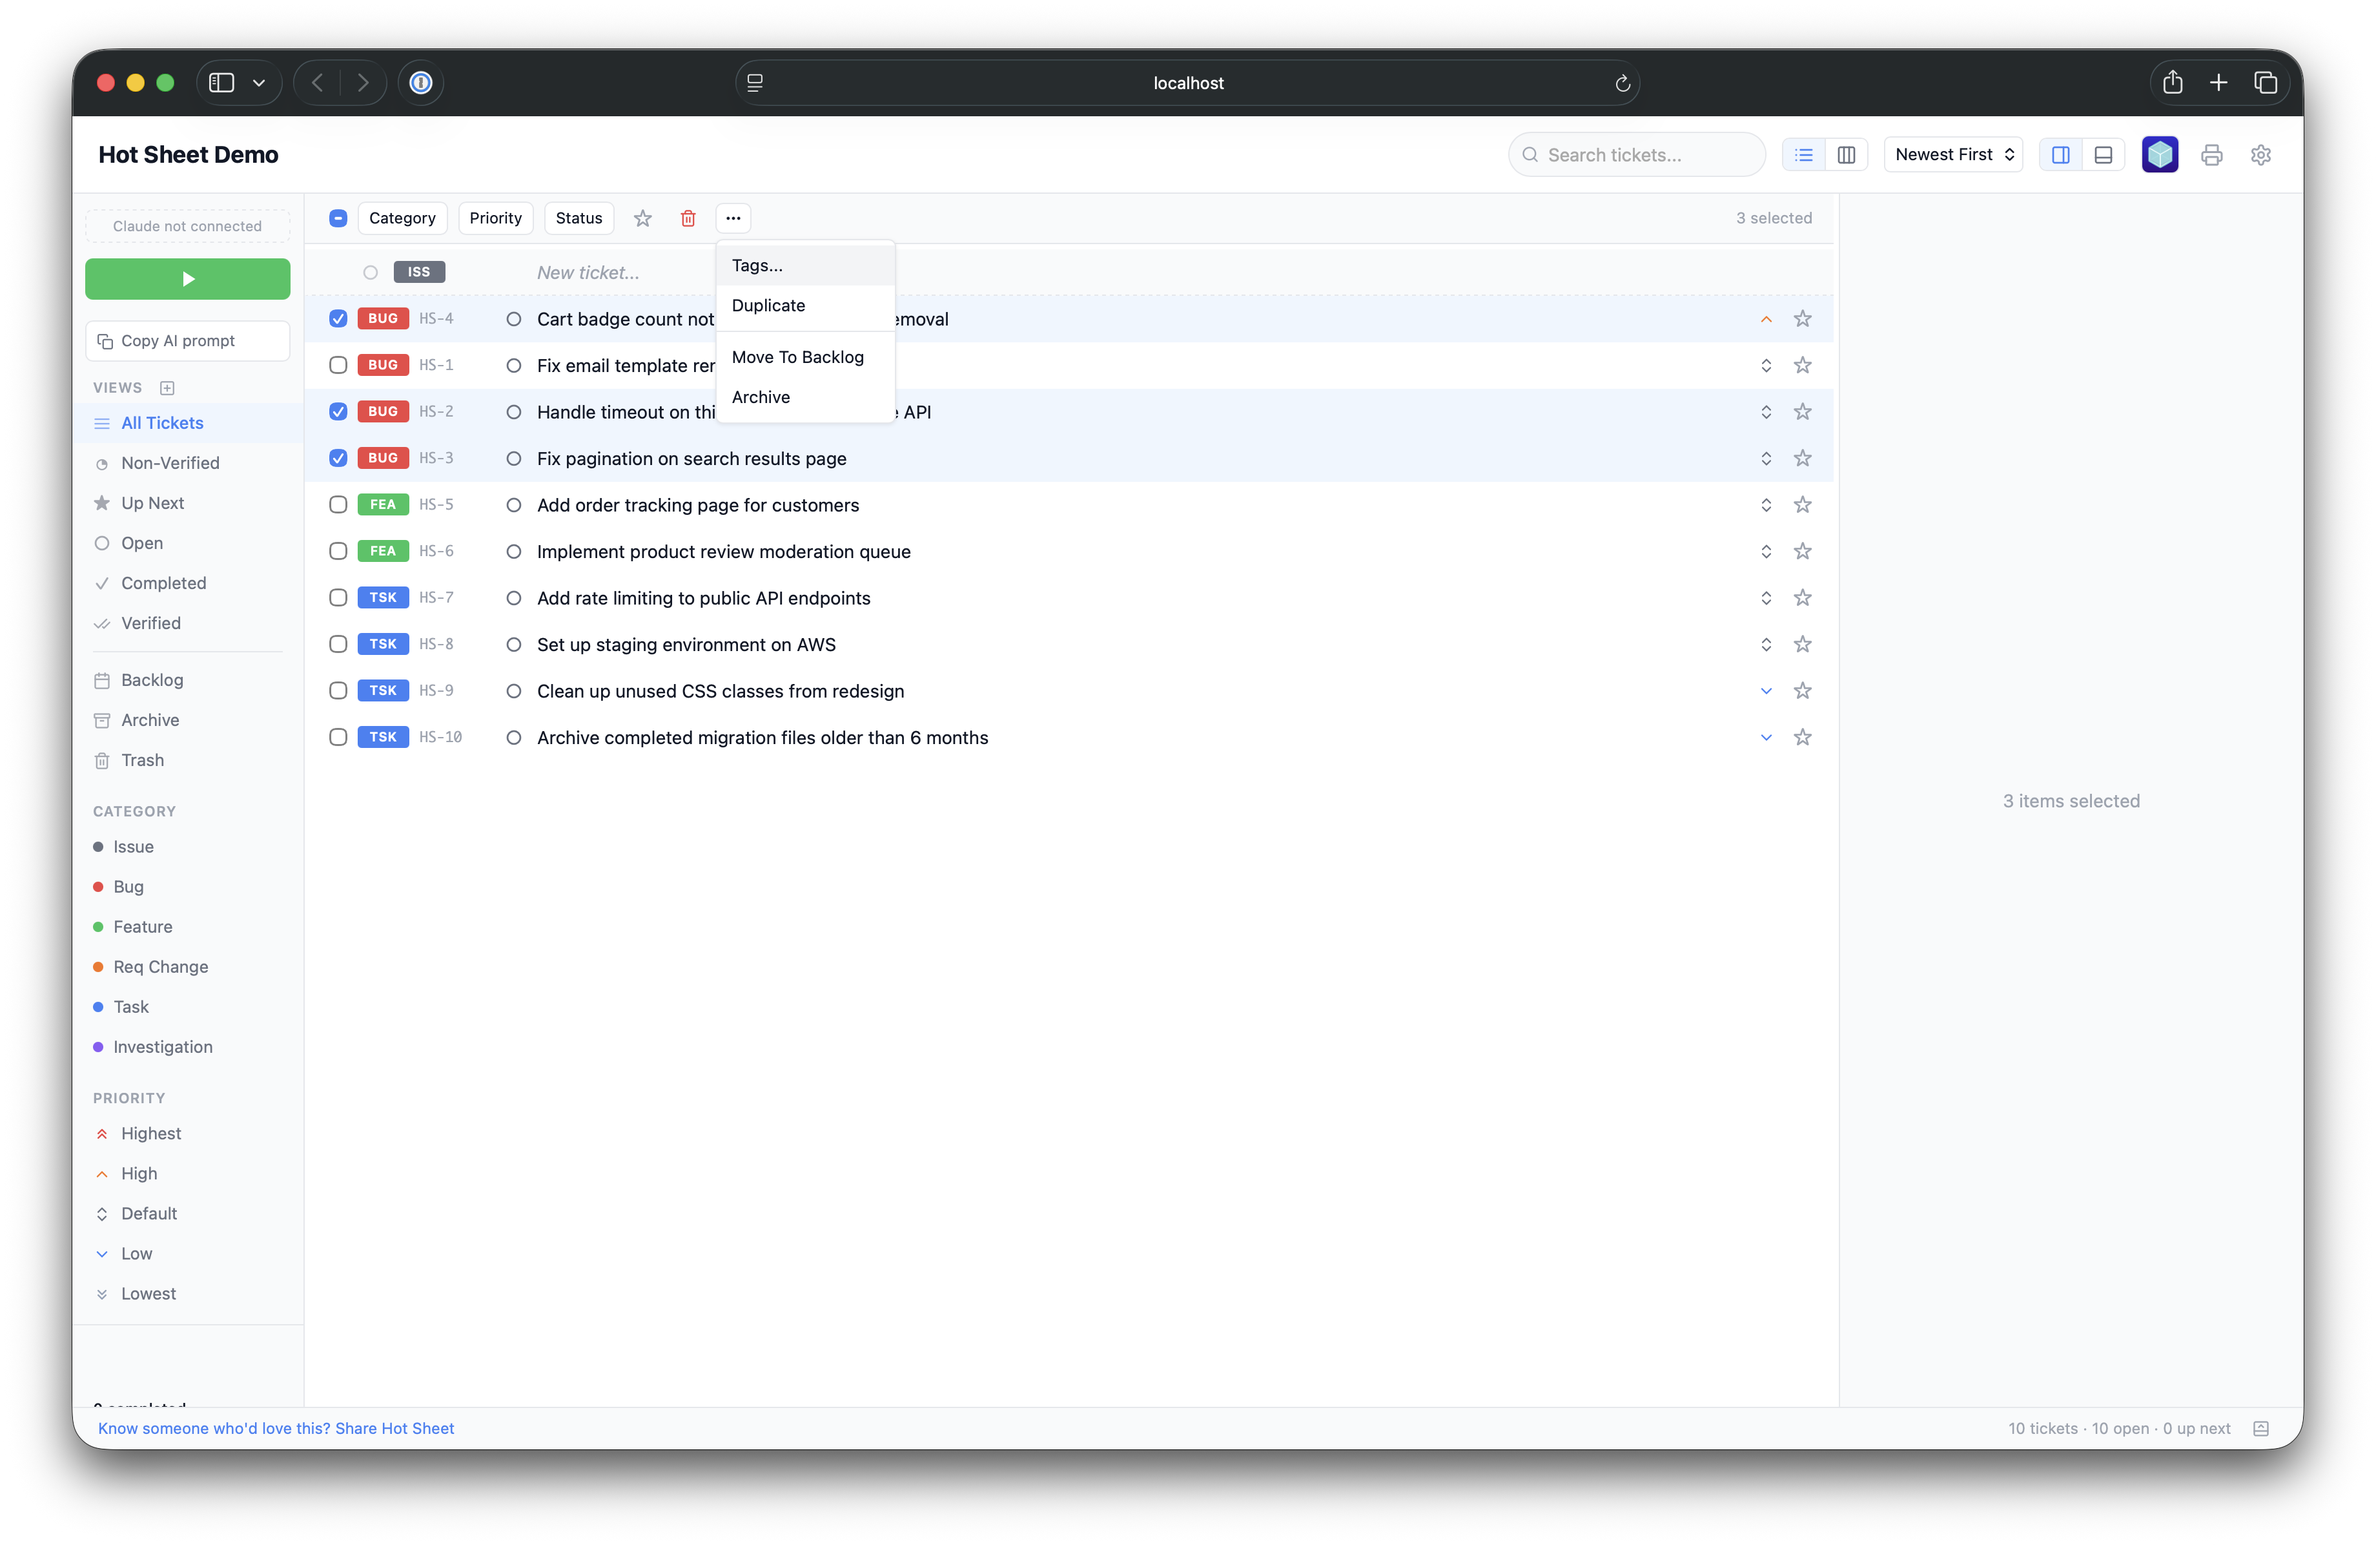
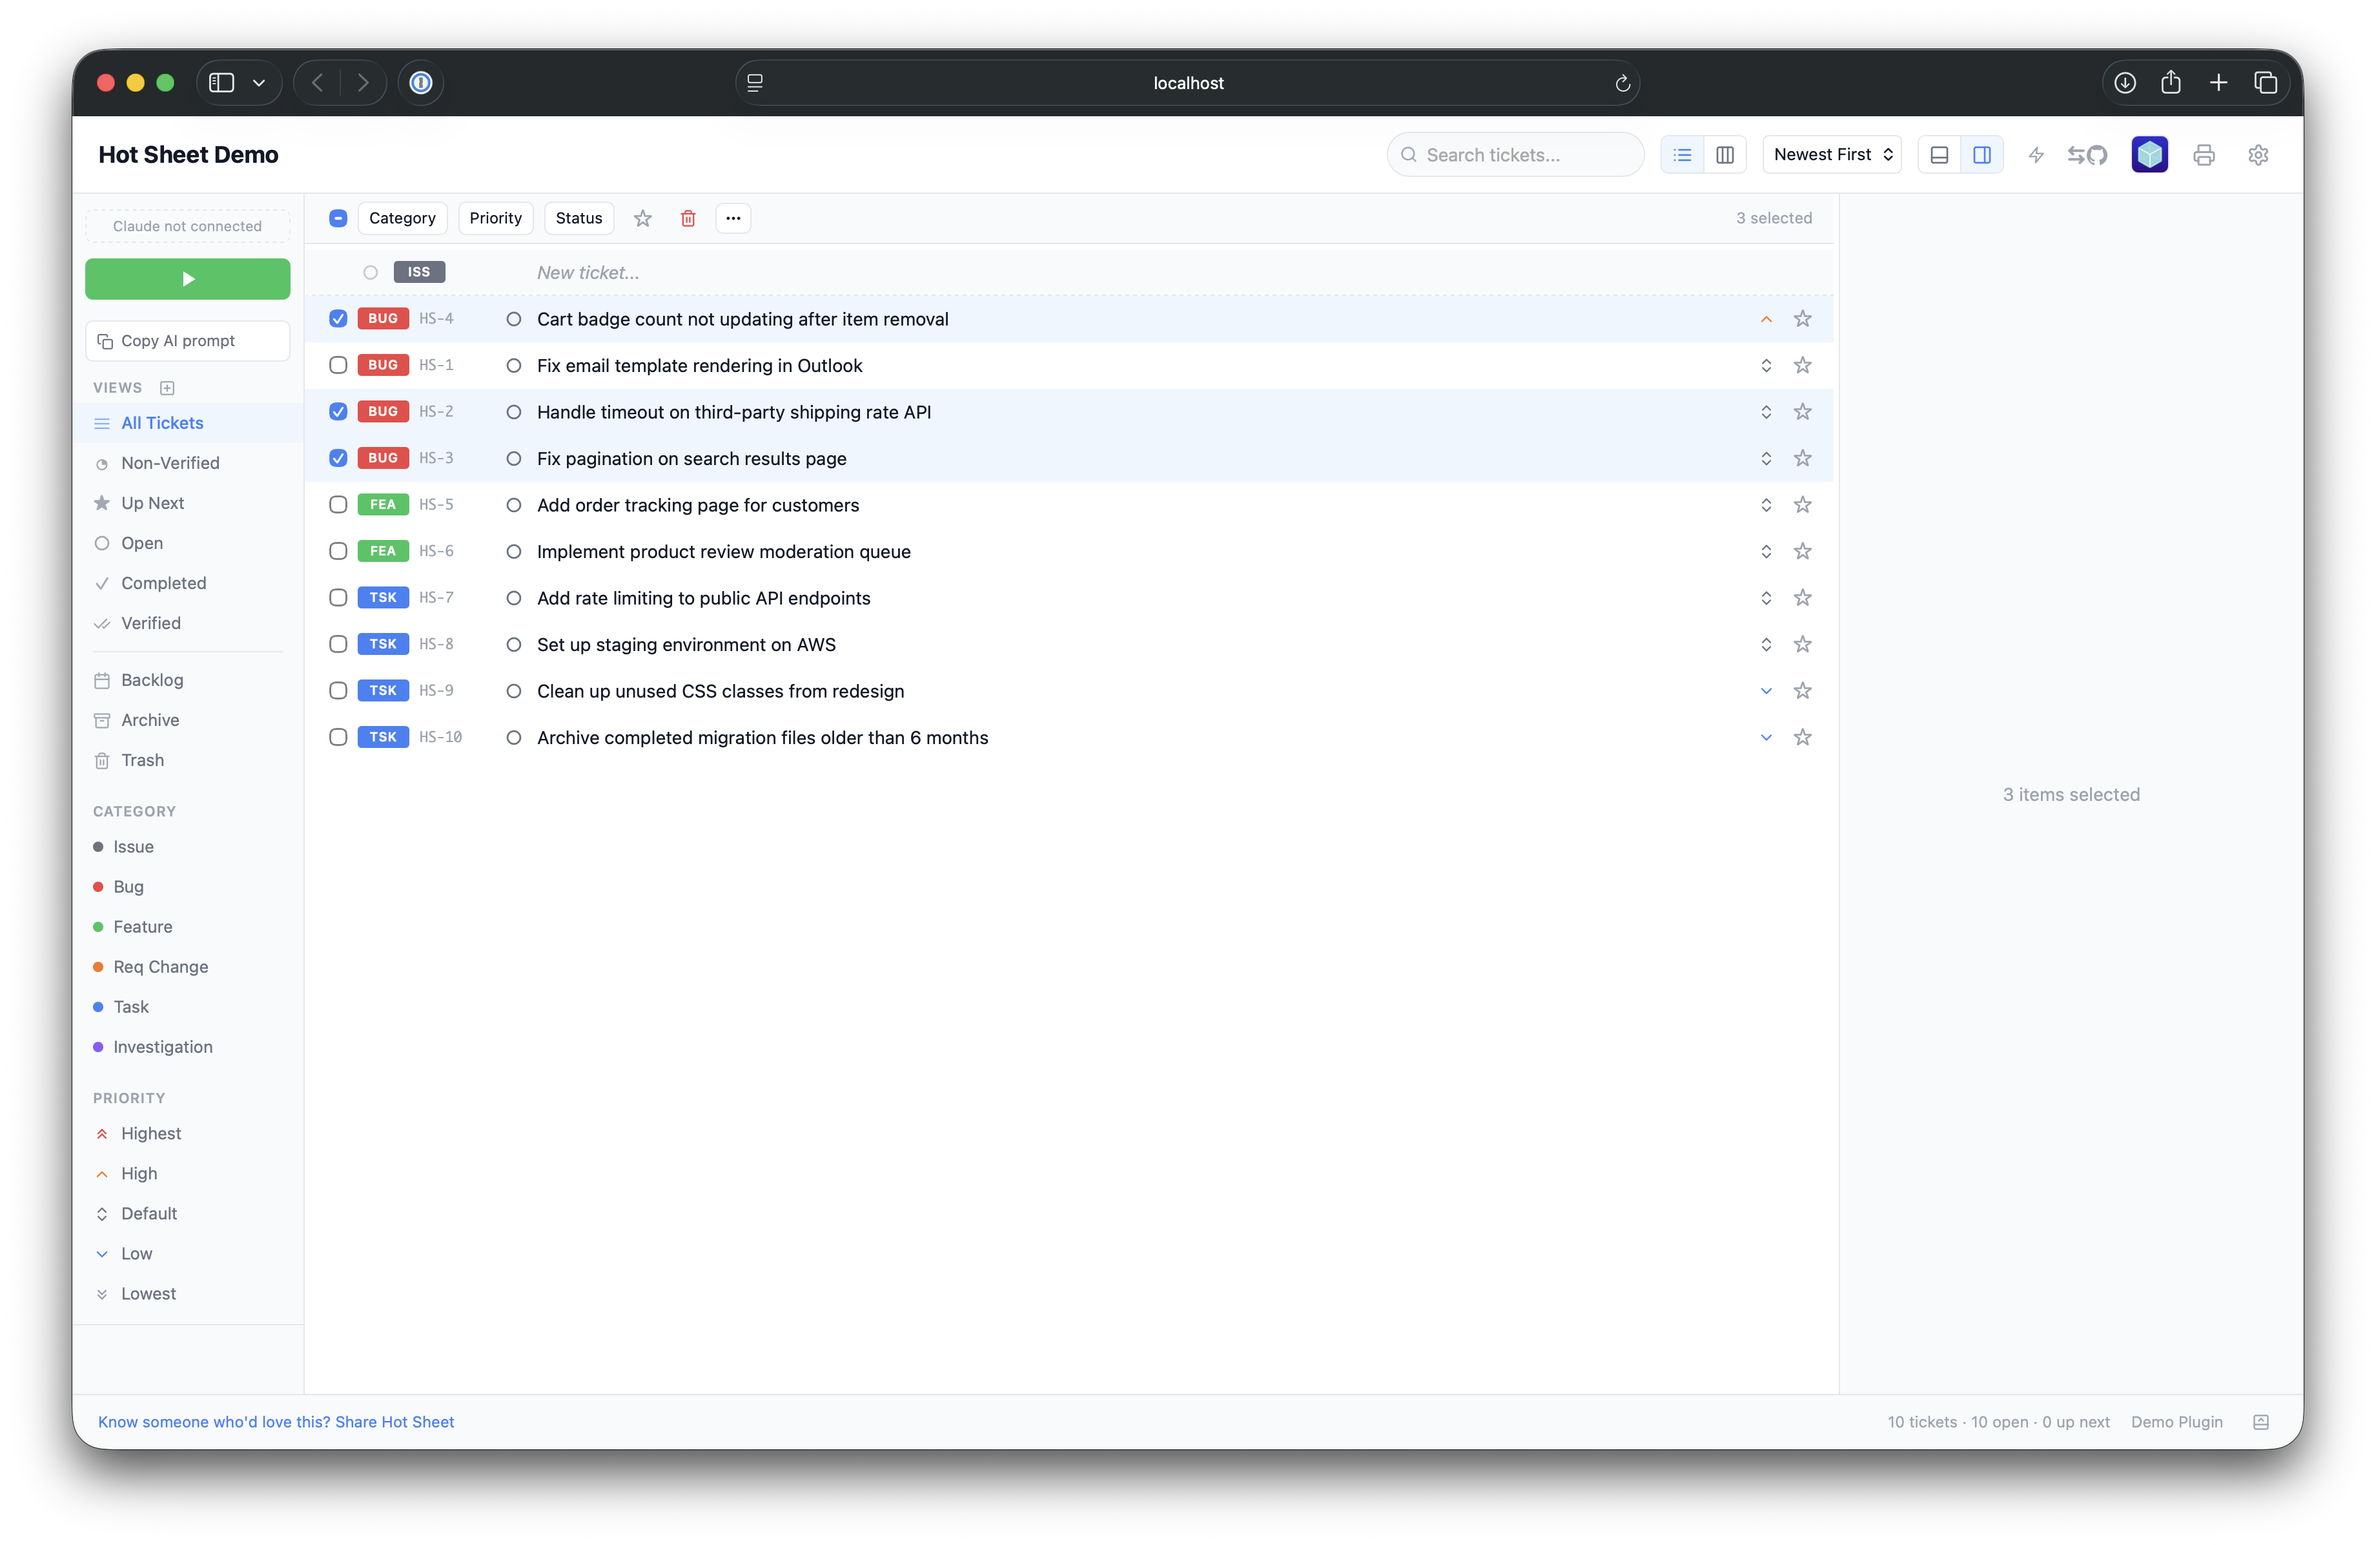
Updated readme and screenshots

diff --git a/README.md b/README.md
@@ -60,9 +60,9 @@ The workflow:
 1. **You** create and prioritize tickets in Hot Sheet
 2. **Hot Sheet** syncs an `Up Next` worklist to `.hotsheet/worklist.md`
 3. **Your AI tool** reads the worklist and works through it
-4. **You** mark tickets complete and add new ones
+4. **You** review, give feedback, and add new tickets
 
-The loop stays tight because the AI always knows what to work on next.
+The loop stays tight because the AI always knows what to work on next — and you always know what it's doing.
 
 ---
 
@@ -80,23 +80,25 @@ The loop stays tight because the AI always knows what to work on next.
   <img src="docs/demo-3.png" alt="Sidebar with custom views and category filtering" width="900">
 </p>
 
-**Column view** — switch to a kanban-style board grouped by status. Drag tickets between columns to change status, or drag onto sidebar items to set category, priority, or view.
+**Column view** — switch to a kanban-style board grouped by status. Drag tickets between columns to change status. Click column headers to select all tickets in a column. Drag onto sidebar items to set category, priority, or view.
 
 <p align="center">
   <img src="docs/demo-7.png" alt="Column view showing tickets organized by status in a kanban board" width="900">
 </p>
 
-**Batch operations** — select multiple tickets to bulk-update category, priority, status, or Up Next. The overflow menu (⋯) provides duplicate, tags, move to backlog, and archive actions. Right-click any ticket for a full context menu with submenus.
+**Batch operations** — select multiple tickets to bulk-update category, priority, status, or Up Next. The overflow menu provides duplicate, tags, mark as read/unread, move to backlog, and archive actions — all with icons. Right-click any ticket for a full context menu with submenus.
 
 <p align="center">
   <img src="docs/demo-5.png" alt="Multiple tickets selected with the batch toolbar and context menu" width="900">
 </p>
 
-**Detail panel** — side or bottom orientation (toggle in the toolbar), resizable, collapsible (click the active position to hide). Shows category, priority, status, and Up Next in a compact grid, plus title, details, tags, attachments, and editable notes. Click a note to edit inline; right-click to delete.
+**Detail panel** — side or bottom orientation (toggle in the toolbar), resizable, collapsible. Shows category, priority, status, and Up Next in a compact grid, plus title, details, tags, attachments, and editable notes. Click a note to edit inline; right-click to delete.
 
 <p align="center">
   <img src="docs/demo-6.png" alt="Detail panel in bottom orientation showing ticket details, tags, and notes" width="900">
 </p>
+
+**Unread indicators** — when tickets are created or updated externally (by AI tools, sync plugins, or the API), a blue dot appears next to the title. Your own edits in the UI never trigger unread status. Mark as Read/Unread from the context menu or batch toolbar. Tickets are automatically marked as read when you open them in the detail panel.
 
 **Stats dashboard** — click the sidebar widget to open a full analytics page with throughput charts, created-vs-completed trends, cumulative flow diagram, category breakdown, and cycle time scatter plot. Hover any chart for detailed tooltips.
 
@@ -104,7 +106,7 @@ The loop stays tight because the AI always knows what to work on next.
   <img src="docs/demo-8.png" alt="Stats dashboard showing throughput, flow, and cycle time charts" width="900">
 </p>
 
-**Multi-project tabs** — open multiple projects in a single window. Tabs appear automatically when you register a second project via the Open Folder dialog (`Cmd+O`). Drag tabs to reorder, right-click for close options and "Show in Finder," and switch with `Cmd+Shift+[/]`. Each project has independent settings, sort preferences, and views.
+**Multi-project tabs** — open multiple projects in a single window. Each project remembers its own sidebar view, settings, sort preferences, and layout. Tabs appear automatically when you register a second project via Open Folder (`Cmd+O`). Drag tabs to reorder, right-click for close options and "Show in Finder," switch with `Cmd+Shift+[/]`.
 
 <p align="center">
   <img src="docs/demo-10.png" alt="Multiple project tabs showing independent ticket lists with tab context menu" width="900">
@@ -117,7 +119,7 @@ The loop stays tight because the AI always knows what to work on next.
 - **Five priority levels** — Highest to Lowest, with Lucide chevron icons, sortable and filterable
 - **Up Next flag** — star tickets to add them to the AI worklist
 - **Drag and drop** — drag tickets onto sidebar views to change category, priority, or status; drop files onto the detail panel to attach; reorder project tabs and custom views
-- **Right-click context menus** — full context menu on tickets with category/priority/status submenus, tags, duplicate, backlog, archive, delete — all with Lucide icons
+- **Right-click context menus** — full context menu on tickets with category/priority/status submenus, tags, duplicate, mark as read/unread, backlog, archive, delete
 - **Search** — full-text search across ticket titles, details, ticket numbers, and tags
 - **Print** — print the dashboard, all tickets, selected tickets, or individual tickets in checklist, summary, or full-detail format
 - **Keyboard-driven** — `Enter` to create, `Cmd+I/B/F/R/K/G` for categories, `Alt+1-5` for priority, `Cmd+D` for Up Next, `Delete` to trash, `Cmd+P` to print, `Cmd+Z/Shift+Z` for undo/redo
@@ -128,6 +130,7 @@ The loop stays tight because the AI always knows what to work on next.
 - **Markdown sync** — `worklist.md` and `open-tickets.md` auto-generated on every change
 - **Automatic backups** — tiered snapshots (every 5 min, hourly, daily) with preview-before-restore recovery
 - **Auto-cleanup** — verified tickets auto-archive after a configurable number of days; trashed tickets auto-delete
+- **Portable settings** — all project settings stored in `settings.json` for easy copying between projects
 - **App icon variants** — 9 icon variants to choose from in Settings, applied instantly to the dock icon
 - **Fully local** — embedded PostgreSQL (PGLite), no network calls, no accounts, no telemetry
 
@@ -137,7 +140,7 @@ The loop stays tight because the AI always knows what to work on next.
 
 The exported worklist is plain markdown. Any AI tool that can read files can use it.
 
-Star tickets as "Up Next" and they appear in the worklist, sorted by priority. As the AI works, it updates ticket status and appends notes — visible right in the detail panel.
+Star tickets as "Up Next" and they appear in the worklist, sorted by priority. As the AI works, it updates ticket status and appends notes — visible right in the detail panel. Tickets modified by the AI show a blue unread dot so you know what to review.
 
 <p align="center">
   <img src="docs/demo-4.png" alt="Up Next view showing prioritized tickets with AI progress notes in the detail panel" width="900">
@@ -161,11 +164,12 @@ Hot Sheet automatically generates skill files for Claude Code (as well as Cursor
 
 ### Claude Channel Integration (Experimental)
 
-Hot Sheet can push events directly to a running Claude Code session via MCP channels. Enable it in Settings → Experimental:
+Hot Sheet can push events directly to a running Claude Code session via MCP channels. Enable it in Settings:
 
-- **Play button** — appears in the sidebar. Single-click sends the worklist to Claude on demand.
+- **Play button** — appears in the sidebar. Single-click sends the worklist to Claude on demand. Pending worklist changes are flushed immediately so the AI always reads up-to-date data.
 - **Auto mode** — double-click the play button to enable automatic mode. Claude is triggered immediately, then continues monitoring for new Up Next items with debounce. Exponential backoff prevents runaway retries.
 - **Auto-prioritize** — when no tickets are flagged as Up Next, Claude automatically evaluates open tickets and picks the most important ones to work on.
+- **Feedback loop** — Claude can request user input by adding notes prefixed with `FEEDBACK NEEDED:` or `IMMEDIATE FEEDBACK NEEDED:`. A dialog appears in the UI for the user to respond, and Claude is automatically re-triggered with the feedback. Blue dots on project tabs indicate pending feedback.
 - **Custom commands** — create named buttons that send custom prompts to Claude **or run shell commands** directly. Organize into collapsible groups. Toggle between "Claude Code" and "Shell" targets per command. Shell commands execute server-side with stdout/stderr captured to the commands log.
 - **Permission relay** — when Claude needs tool approval (Bash, Edit, etc.), a full-screen overlay shows the tool name and command preview with Allow/Deny/Dismiss buttons — no need to switch to the terminal.
 - **Commands log** — a resizable bottom panel that records all communication: triggers, completions, permission requests, and shell command output. Filter by type, search, and copy entries. Shell commands show a stop button for running processes.
@@ -337,11 +341,12 @@ hotsheet --browser
 
 ### Settings file
 
-Create `.hotsheet/settings.json` to configure per-project options:
+All project settings are stored in `.hotsheet/settings.json`. You can copy this file between projects to share configuration:
 
 ```json
 {
   "appName": "HS - My Project",
+  "ticketPrefix": "PROJ",
   "backupDir": "/path/to/backup/location"
 }
 ```
@@ -352,6 +357,8 @@ Create `.hotsheet/settings.json` to configure per-project options:
 | `backupDir` | Backup storage path (defaults to `.hotsheet/backups/`) |
 | `ticketPrefix` | Custom ticket number prefix (defaults to `HS`) |
 | `appIcon` | Icon variant (`default`, `variant-1` through `variant-9`) |
+
+UI preferences (detail panel position, sort order, categories, custom views, custom commands, etc.) are also stored in this file and transfer automatically when you copy it.
 
 All settings can also be changed from the settings panel UI.
 
@@ -391,7 +398,7 @@ All settings can also be changed from the settings panel UI.
 | Database | PGLite (embedded PostgreSQL) |
 | UI | Custom server-side JSX (no React), vanilla client JS |
 | Charts | Inline SVG (no external chart library) |
-| Build | tsup (server + client bundles), sass (SCSS → CSS) |
+| Build | tsup (server + client bundles), sass (SCSS) |
 | Storage | `.hotsheet/` in your project directory |
 
 Data stays local. No network calls, no accounts, no telemetry.
@@ -407,15 +414,16 @@ npm install
 
 npm run dev              # Build client assets, then run via tsx
 npm run build            # Build to dist/cli.js
-npm test                 # Unit tests with coverage (446 tests)
-npm run test:e2e         # E2E browser tests (64 tests)
+npm test                 # Unit tests with coverage (626 tests)
+npm run test:e2e         # E2E browser tests (120+ tests)
+npm run test:fast        # Unit + fast E2E (skips GitHub plugin tests)
 npm run test:all         # Merged coverage report (unit + E2E)
 npm run lint             # ESLint
 npm run clean            # Remove dist and caches
 npm link                 # Symlink for global 'hotsheet' command
 ```
 
-The project has comprehensive test coverage with 446 unit tests (vitest) and 64 Playwright E2E browser tests, plus 12 smoke tests for production install verification.
+The project has comprehensive test coverage with 626 unit tests (vitest) and 120+ Playwright E2E browser tests, plus smoke tests for production install verification.
 
 ---
 
